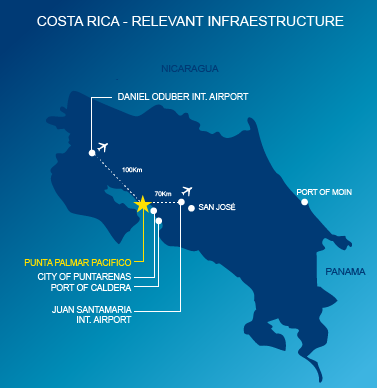
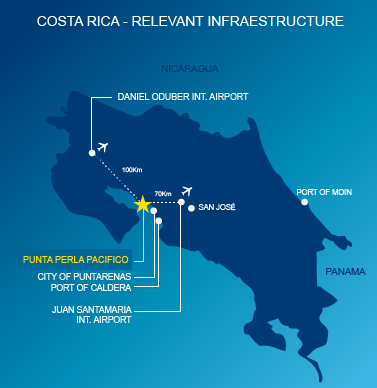
Updated text

Changed region(s): [[0.0584, 0.6186, 0.3501, 0.7113]]

diff --git a/index.html b/index.html
@@ -3,26 +3,17 @@ layout: default
 ---
 <div class="bannercontainer" style="max-height: none; overflow: visible; height: 365px;">
     <div class="banner revslider-initialised tp-simpleresponsive" data-fullscreen="on" data-auto="true" data-hidetimerbar="off" data-fullscreenoffsetcontainer=".header" id="revslider-382" style="height: 100%; max-height: none;">
+
       <ul class="tp-revslider-mainul" style="display: block; overflow: hidden; width: 100%; height: 100%; max-height: none;">
-        <li data-transition="fade" data-slotamount="7" data-saveperformance="on" class="background overlay overlay-light tp-revslider-slidesli active-revslide" style="width: 100%; height: 100%; overflow: hidden; z-index: 18; visibility: hidden; opacity: 0; background-image: url(http://placehold.it/2000x1333);">
-          <div class="tp-caption sft large_bold_white start" data-x="center" data-y="center" data-voffset="-85" data-speed="700" data-start="700" data-easing="easeOutBack" style="transition: all 0s ease 0s; min-height: 0px; min-width: 0px; line-height: 40px; border-width: 0px; margin: 0px; padding: 0px; letter-spacing: 0px; font-size: 28px; left: 588.5px; top: 106.091px; visibility: visible; opacity: 0; transform: matrix3d(1, 0, 0, 0, 0, 1, 0, 0, 0, 0, 1, -0.00166, 0, -50, 0, 1);">Welcome to Punta Perla Pacífico</div>
-          <p class="tp-caption fade text-center start" data-x="center" data-y="center" data-speed="500" data-start="900" data-easing="easeOutBack" style="transition: opacity 0.15s linear 0s; min-height: 0px; min-width: 0px; line-height: 16px; border-width: 0px; margin: 0px 0px 16.5909px; padding: 0px; letter-spacing: 0px; font-size: 11px; left: 551.5px; top: 150.205px; visibility: visible; opacity: 0; transform: matrix3d(1, 0, 0, 0, 0, 1, 0, 0, 0, 0, 1, -0.00166, 0, 0, 0, 1);">Lorem ipsum dolor sit amet consectetur adipisicing elit seddo
-            <br> eiusmod tempor incididunt ut labore et dolore magna aliqua. <br> Utondo enim ad minim veniam quis nostrud exercitation ullamco.</p>
-          <a href="#slide-under" class="tp-caption sfb btn btn-primary btn-lg btn-wide slider-scroll start" data-x="center" data-y="center" data-voffset="80" data-hoffset="-10" data-speed="300" data-start="1000" style="transition: all 0.2s ease 0s; min-height: 0px; min-width: 0px; line-height: 31px; border-width: 0px; margin: 0px; padding: 0px 23px; letter-spacing: 0px; font-size: 10px; left: 664.364px; top: 220.091px; visibility: visible; opacity: 0; transform: matrix3d(1, 0, 0, 0, 0, 1, 0, 0, 0, 0, 1, -0.00166, 0, 50, 0, 1);">Read More</a>
-        </li>
-        <li data-transition="fade" data-slotamount="7" data-saveperformance="on" class="background overlay overlay-light tp-revslider-slidesli active-revslide current-sr-slide-visible" style="width: 100%; height: 100%; overflow: hidden; z-index: 20; visibility: inherit; opacity: 1; background-image: url(http://placehold.it/2000x1333);">
-          <div class="tp-caption sft large_bold_white start" data-x="left" data-y="center" data-hoffset="100" data-voffset="-85" data-speed="700" data-start="700" data-easing="easeOutBack" style="transition: all 0s ease 0s; min-height: 0px; min-width: 0px; line-height: 40px; border-width: 0px; margin: 0px; padding: 0px; letter-spacing: 0px; font-size: 28px; left: 395.723px; top: 106.091px; visibility: visible; opacity: 1; transform: matrix3d(1, 0, 0, 0, 0, 1, 0, 0, 0, 0, 1, -0.0025, 0, 0, 0, 1);">Welcome to Punta Perla Pacífico</div>
-          <p class="tp-caption fade start" data-x="left" data-y="center" data-hoffset="100" data-speed="500" data-start="900" data-easing="easeOutBack" style="transition: opacity 0.15s linear 0s; min-height: 0px; min-width: 0px; line-height: 16px; border-width: 0px; margin: 0px 0px 16.5909px; padding: 0px; letter-spacing: 0px; font-size: 11px; left: 395.723px; top: 150.205px; visibility: visible; opacity: 1; transform: matrix3d(1, 0, 0, 0, 0, 1, 0, 0, 0, 0, 1, -0.0025, 0, 0, 0, 1);">Lorem ipsum dolor sit amet consectetur adipisicing elit seddo
-            <br> eiusmod tempor incididunt ut labore et dolore magna aliqua. <br> Utondo enim ad minim veniam quis nostrud exercitation ullamco.</p>
-          <a href="#slide-under" class="tp-caption sfb btn btn-primary btn-lg btn-wide slider-scroll start" data-x="left" data-y="center" data-voffset="80" data-hoffset="100" data-speed="300" data-start="1000" style="transition: all 0.2s ease 0s; min-height: 0px; min-width: 0px; line-height: 31px; border-width: 0px; margin: 0px; padding: 0px 23px; letter-spacing: 0px; font-size: 10px; left: 395.723px; top: 220.091px; visibility: visible; opacity: 1; transform: matrix3d(1, 0, 0, 0, 0, 1, 0, 0, 0, 0, 1, -0.0025, 0, 0, 0, 1);">Read More</a>
-        </li>
-        <li data-transition="fade" data-slotamount="7" data-saveperformance="on" class="background overlay overlay-light tp-revslider-slidesli active-revslide" style="width: 100%; height: 100%; overflow: hidden; visibility: hidden; opacity: 0; z-index: 18; background-image: url(http://placehold.it/2000x1333);">
-          <div class="tp-caption sft large_bold_white start" data-x="left" data-y="center" data-hoffset="500" data-voffset="-85" data-speed="700" data-start="700" data-easing="easeOutBack" style="transition: all 0s ease 0s; min-height: 0px; min-width: 0px; line-height: 60px; border-width: 0px; margin: 0px; padding: 0px; letter-spacing: 0px; font-size: 42px; left: 665px; top: 251px; visibility: visible; opacity: 0; transform: matrix3d(1, 0, 0, 0, 0, 1, 0, 0, 0, 0, 1, -0.00166, 0, -50, 0, 1);">Welcome to Punta Perla Pacífico</div>
-          <p class="tp-caption fade start" data-x="left" data-y="center" data-hoffset="500" data-speed="500" data-start="900" data-easing="easeOutBack" style="transition: opacity 0.15s linear 0s; min-height: 0px; min-width: 0px; line-height: 24px; border-width: 0px; margin: 0px 0px 25px; padding: 0px; letter-spacing: 0px; font-size: 17px; left: 665px; top: 317.5px; visibility: visible; opacity: 0; transform: matrix3d(1, 0, 0, 0, 0, 1, 0, 0, 0, 0, 1, -0.00166, 0, 0, 0, 1);">Lorem ipsum dolor sit amet consectetur adipisicing elit seddo
-            <br> eiusmod tempor incididunt ut labore et dolore magna aliqua. <br> Utondo enim ad minim veniam quis nostrud exercitation ullamco.</p>
-          <a href="#slide-under" class="tp-caption sfb btn btn-primary btn-lg btn-wide slider-scroll start" data-x="left" data-y="center" data-voffset="80" data-hoffset="500" data-speed="300" data-start="1000" style="transition: all 0.2s ease 0s; min-height: 0px; min-width: 0px; line-height: 47px; border-width: 0px; margin: 0px; padding: 0px 35px; letter-spacing: 0px; font-size: 15px; left: 665px; top: 422.5px; visibility: visible; opacity: 0; transform: matrix3d(1, 0, 0, 0, 0, 1, 0, 0, 0, 0, 1, -0.00166, 0, 50, 0, 1);">Read More</a>
-        </li>
+        {% for slide in site.data.slides %}
+          <li data-transition="fade" data-slotamount="7" data-saveperformance="on" class="background overlay overlay-light tp-revslider-slidesli active-revslide" style="width: 100%; height: 100%; overflow: hidden; z-index: 18; visibility: hidden; opacity: 0; background-image: url(/images/slider/{{ slide.img }});">
+            <div class="tp-caption sft large_bold_white start" data-x="center" data-y="center" data-voffset="-85" data-speed="700" data-start="700" data-easing="easeOutBack" style="transition: all 0s ease 0s; min-height: 0px; min-width: 0px; line-height: 40px; border-width: 0px; margin: 0px; padding: 0px; letter-spacing: 0px; font-size: 28px; left: 588.5px; top: 106.091px; visibility: visible; opacity: 0; transform: matrix3d(1, 0, 0, 0, 0, 1, 0, 0, 0, 0, 1, -0.00166, 0, -50, 0, 1);">{{ slide.title }}</div>
+            <p class="tp-caption fade text-center start" data-x="center" data-y="center" data-speed="500" data-start="900" data-easing="easeOutBack" style="transition: opacity 0.15s linear 0s; min-height: 0px; min-width: 0px; line-height: 16px; border-width: 0px; margin: 0px 0px 16.5909px; padding: 0px; letter-spacing: 0px; font-size: 11px; left: 551.5px; top: 150.205px; visibility: visible; opacity: 0; transform: matrix3d(1, 0, 0, 0, 0, 1, 0, 0, 0, 0, 1, -0.00166, 0, 0, 0, 1);">{{ slide.description }}</p>
+            <a href="#slide-under" class="tp-caption sfb btn btn-primary btn-lg btn-wide slider-scroll start" data-x="center" data-y="center" data-voffset="80" data-hoffset="-10" data-speed="300" data-start="1000" style="transition: all 0.2s ease 0s; min-height: 0px; min-width: 0px; line-height: 31px; border-width: 0px; margin: 0px; padding: 0px 23px; letter-spacing: 0px; font-size: 10px; left: 664.364px; top: 220.091px; visibility: visible; opacity: 0; transform: matrix3d(1, 0, 0, 0, 0, 1, 0, 0, 0, 0, 1, -0.00166, 0, 50, 0, 1);">Read More</a>
+          </li>
+        {% endfor %}
       </ul>
+
     <div class="tp-loader spinner0" style="display: none;"><div class="dot1"></div><div class="dot2"></div><div class="bounce1"></div><div class="bounce2"></div><div class="bounce3"></div></div><div class="tp-bannertimer" style="visibility: visible; width: 14.8111%; transform: translate3d(0px, 0px, 0px);"></div></div>
   <div class="tp-bullets  simplebullets round" style="bottom: 23.2273px; left: 50%; margin-left: -26px;"><div class="bullet first"></div><div class="bullet selected"></div><div class="bullet last"></div><div class="tpclear"></div></div><div style="position: absolute; top: 182px; margin-top: -24px; left: -2px;" class="tp-leftarrow  tparrows default round"><div class="tp-arr-allwrapper"><div class="tp-arr-iwrapper"><div class="tp-arr-imgholder" style="visibility: inherit; opacity: 1; background-image: url(file:///Users/guayo/Dropbox/bretes/punta%20Perla%20paci%CC%81fico/themeforest-13905389-mexico-responsive-multipurpose-template/html/home/undefined);"></div><div class="tp-arr-imgholder2"></div><div class="tp-arr-titleholder"></div><div class="tp-arr-subtitleholder"></div></div></div></div><div style="position: absolute; top: 182px; margin-top: -24px; right: -2px;" class="tp-rightarrow  tparrows default round"><div class="tp-arr-allwrapper"><div class="tp-arr-iwrapper"><div class="tp-arr-imgholder" style="visibility: inherit; opacity: 1; background-image: url(file:///Users/guayo/Dropbox/bretes/punta%20Perla%20paci%CC%81fico/themeforest-13905389-mexico-responsive-multipurpose-template/html/home/undefined);"></div><div class="tp-arr-imgholder2"></div><div class="tp-arr-titleholder"></div><div class="tp-arr-subtitleholder"></div></div></div></div></div>
   <hr class="hr-nobg hr-md">
@@ -50,7 +41,7 @@ layout: default
           </div>
         </div>
         <div class="col-md-4 col-sm-6">
-          <h2><a href="">Main features</a></h2>
+          <h2><a href="">Punta Perla Pacífico</a></h2>
           <div class="heading-divider"></div>
           <p>Uis aute irure dolor in reprehenderit in voluptate velit esse cillum dolore eu fugiat nulla pariatur. Excepteur sint occaecat cupidatat non proident, sunt in culpa qui officia deserunt mollit anim id est laborum.</p>
           <p>Sed ut perspiciatis unde omnis iste natus error voluptatem accusantium doloremque lauda ntium, totam rem aperiam, eaque ipsa quaeab illo inventore veritatis et quasi architecto voluptate velit esse cillum dolor.</p>

diff --git a/about/introduction.md b/about/introduction.md
@@ -12,20 +12,20 @@ This country is a Latin American stronghold with high levels of human developmen
 
 Sub-development can become a permanent condition as well as mediocrity, minds become slow and heavy when a country and its context do not innovate, do not develop and the fundamental changes do not transcend and are not executed due to lack of innovating and developing policies and only those that fit the minds of populist politi-cians with little vision take place. Progress and development are with-out doubt the mission and vision of this initiative but always hand-in-hand with their social contribution, this being their maximum goal, and of course hand-in-hand with environmental sustainability.
 
-That is why, Pacific Tree S.A., a promoting and coordinating company of the initiative denominated Smart City Punta Palmar Pacifico, wishes to layout its idea and vision which has begun as a dream, but that Costa Rica can bring to life. We oppose and we refuse to think that Costa Rica has to remain in that sub-development lethargy for another 50 years, condemning future generations to a lack of progress opportunities. This being so, Punta Palmar Pacífico is precisely about that; it is about promoting a substantial well-planned change with traceable long-term goals.
+That is why, Pacific Tree S.A., a promoting and coordinating company of the initiative denominated Smart City Punta Perla Pacifico, wishes to layout its idea and vision which has begun as a dream, but that Costa Rica can bring to life. We oppose and we refuse to think that Costa Rica has to remain in that sub-development lethargy for another 50 years, condemning future generations to a lack of progress opportunities. This being so, Punta Perla Pacífico is precisely about that; it is about promoting a substantial well-planned change with traceable long-term goals.
 
 ## Relevant Infraestructure
 
 ![Costa Rica](/images/costa-rica-intro.png){: .pull-left .txt-img } Costa Rica is a country with high indexes of schooling, bilingualism, high-level technical and professional schools in the fields of engineering, medicine, computer science and IT, as well as being considered a tour-ism and ecological destination par excellence in Latin America. The Province of Puntarenas is joined together among other cantons by the three main cantons: Puntarenas  Center, Esparza and Miramar. These include a population of nearly 200,000 residents and this area, rich in lands with a flat topography for agricultural production and its Gulf of Nicoya, once a buoyant fishing zone, for more than 60 years were generators of wealth and employment, activities that no longer allow the needs demanded by the residents to be satisfied. However, it is area with an impressive potential, due to its strategic geographical location, its tourism potential without paragon being close to the largest beach of the Pacific and next to a long strip of wetlands and mangroves of exuberant natural beauty with an exit to the sea and towards the lovely islands of the Gulf of Nicoya. It is also located at only 75 kms by road from the capital city of Costa Rica, San Jose, and soon, one and a half hours away to the north to the best tourism area and beaches of the province of Guanacaste.
 
-Punta Palmar Pacífico would be located at the center of those three cantons, within an area that includes the small settlements of Pitaya and Chomes.  Its strategic location is highlighted since it is also surrounded by the three main ports of the Costa Rican Pacific shore: Caldera which is the grain port, the Cruiser Port of Puntarenas and the Sugar port of Punta Morales at the center of the Americas. Punta Palmar Pacífico contemplates the development of a Smart City on a land extension of 5,600 hectares, which can be expanded up to 7,000 hectares.
+Punta Perla Pacífico would be located at the center of those three cantons, within an area that includes the small settlements of Pitaya and Chomes.  Its strategic location is highlighted since it is also surrounded by the three main ports of the Costa Rican Pacific shore: Caldera which is the grain port, the Cruiser Port of Puntarenas and the Sugar port of Punta Morales at the center of the Americas. Punta Perla Pacífico contemplates the development of a Smart City on a land extension of 5,600 hectares, which can be expanded up to 7,000 hectares.
 
 ## General Context
 
 ![Costa Rica](/images/project-map.png){: .pull-right .txt-img }The following would be established here: a mega manufacturing indus-trial zone, a trade center of Asian products, a large IT center that could operate as a Hub or core telecommunications center, in coordination with the three time zones of the USA and attractive for the telematic and communication operations that American companies operate today in centers in Southeast Asia and India with the disadvantage of the great time table difference with the USA, a convention center, a sports stadium with a sports center, a hospital and health center, school, high-school and university educational centers, residential compounds, shopping centers, a country club with a golf course, a theme park, recreational areas, hotel and casino center, Government offices, Justice Courts, firemen and police force, parks, roundabouts and avenues, etc.   All of this would exist under an integrated compound of “clusters” of smart communication systems in optic fiber, where one will only use self-sustainable transportation and energy support systems, using resources of renewable and environmentally friendly energy sources.
 
-One would also think about locating the new international airport that Costa Rica needs there, within a 900 hectare area, since these are flat topography lands, at a price per m2 well below those compared with other areas of the country that are currently being studied. Because they are flat lands, the cost of earth movements is low and, what is most important, there are no obstacles for natural approximation and take-off procedures, with the best location from the aeronautical point of view. The new mega port terminal of the Pacific could be located only 15 kms away in a maritime zone with special natural characteristics of draught and depth of 15 meters, where ships with a capacity of up to 12 thou-sand containers of the Panamax and Post Panamax type and grain ships with Capesize dimensions, will be able to dock. With this, high aggregate value synergies would be established for merchandise trade through the Panama Canal and with the future Caribbean terminal port of Moin, of the Province of Limon, with a proposal currently under study that intends to join both coasts through a railway line, benefiting all the processes of the logistic chain of foreign trade of Costa Rica.
+One would also think about locating a new international cargo airport that Costa Rica needs there, within a 500 hectare area, since these are flat topography lands, at a price per m2 well below those compared with other areas of the country that are currently being studied. Because they are flat lands, the cost of earth movements is low and, what is most important, there are no obstacles for natural approximation and take-off procedures, with the best location from the aeronautical point of view. The new mega port terminal of the Pacific could be located only 15 kms away in a maritime zone with special natural characteristics of draught and depth of 15 meters, where ships with a capacity of up to 12 thou-sand containers of the Panamax and Post Panamax type dimension ships, will be able to dock. With this, high aggregate value synergies would be established for merchandise trade through the Panama Canal and with the future Caribbean terminal port of Moin, of the Province of Limon, with a proposal currently under study that intends to join both coasts through a railway line, benefiting all the processes of the logistic chain of foreign trade of Costa Rica.
 
-The city Punta Palmar Pacífico would be connected through a new railway line and a modern train from and to the city of San Jose, so that the people who work there but do not live there, will be able to go from one place to the other in only 45 minutes. On the other hand, this project intends to decongest and relieve the great vehicle load, pollution issues and the great residential pressure of the Great Metropolitan Area, offeringto the younger generations both Costa Rican as well as foreigners, - through incentives and mechanisms of the Immigration policy of Costa Rica, derived from the Free Trade Agreements it has signed with various countries-, the possibility of developing and advancing in a non-polluted environment in contact with the Pacific Ocean, allowing them to live, work and study in the coastal zone, and with the real possibility of having their own house through integral financing plans.
+The city Punta Perla Pacífico would be connected through a new railway line and a modern train from and to the city of San Jose, so that the people who work there but do not live there, will be able to go from one place to the other in only 45 minutes. On the other hand, this project intends to decongest and relieve the great vehicle load, pollution issues and the great residential pressure of the Great Metropolitan Area, offeringto the younger generations both Costa Rican as well as foreigners, - through incentives and mechanisms of the Immigration policy of Costa Rica, derived from the Free Trade Agreements it has signed with various countries-, the possibility of developing and advancing in a non-polluted environment in contact with the Pacific Ocean, allowing them to live, work and study in the coastal zone, and with the real possibility of having their own house through integral financing plans.
 
 This ambitious project would see its full peak at the end of 25 years.  Pacific Tree S.A., through this initiative-proposal wishes to invite Mega Developers, Development and Commercial Banks and International Investors to invest in this proposal, funding the next stage of our Con-ceptual Plan, which would be performing a Business Plan and an Envi-ronmental Incidence Study, based on a pre-feasibility economic study with the intention that this proposal may be qualified with the Declarationof National Interest and Private Initiative by the Government of Costa Rica.The funds invested in the mentioned studies would be reimbursablewhen the project enters its development stage.

diff --git a/participants.md b/participants.md
@@ -1,21 +1,37 @@
 ---
-layout: page
+title: Participants
+subtitle: Some of the participants in the project
+layout: project
 participants:
- - name: Pacific Tree S.A.
-   description: Managing Company and promoter of the Punta Palmar Pacífico Smart City  initiative and its development through the generation of specialized poles in the areas of infrastructure, logistics, transportation, ports and Cargo airport, a center for technology transfer and a technological park.  It is represented by Mauricio Dobles Montealegre, a lawyer specializing in Corporate Law.  Pacific Tree S.A., through a consortia of national and international investors, aims to invest a sum of US$ 290 million dollars for the purchase of lands and financing of the advanced technical-study phase and development of basic infrastructure such as water well perforation, building of aqueducts, streets, sidewalks, bike lanes, underground electricity networks, sewer systems, water treatment plants and fiber optics networks among others.  This will invite sub-development companies to invest, design and develop specific sections within and for said poles. 
-
- - name: INGENYA Consultores S.A.
-   description: Ingenya Consultores S.A. is a Company with 15 years of experience in engineering and architectural design in Costa Rica which has specialized mainly in high tech industrial projects for the industries of microchips, medical products and pharmaceuticals, as well as for the manufacture of food products.  Furthermore, Ingenya has a vast experience in the hotel industry and housing projects. 
-
- - name: GESTARSE S.A.
-   description: Gestarse S.A. is a consulting firm, which provides integrated consulting services to insure the organizations´ competitiveness and sustainability in the mid and long term, starting from a solid base in Social Responsibility, Organizational Development and Project Management. They work together with the organization in order to create the conditions for the management of their process internally, instead of creating co-dependence. 
-
- - name: TABASH Y ASOCIADOS
-   description: "Tabash y Asociados has been in charge of managing financial solutions for its clients for the past 15 years, with the purpose of improving its clients’ growth, development, short-term and medium-term planning, helping them in negotiating funds to be utilized as work capital, credit lines, financing for projects and investments, recovery and financing of their credit portfolio, research and development, launching of new products, financial development for their own clients, etc.  We have specialized in developing innovative models, which allow for adjustments depending on the clients’ and funders´ needs.  We use national and international donors, public or private, as well as investment societies, NGOs, funders other than banks, sophisticated investors and, more recently, we have been involved with Risk Funders, Venture Capital and Risk Investors. > We cater to clients from all areas of the economy, as well as all sizes of companies, from micro-businesses, to mega-projects, dedicated to activities such as agriculture, livestock, agro-industry, industry, commerce and services and a large variety of entrepreneurs, small and medium-sized companies, associations and municipalities and cooperatives. > Tabash y Asociados, together with PPP, will develop a financing model, which we will execute. > Our tasks will concentrate on the first three fundamental parts of this project: > a) the first task will be to obtain resources for the preliminary studies. >  b) the second will be to gather a group of innovative funders, which will create the structure needed in order to negotiate the land. > c) the third task will be to raise the capital needed to buy the land and carry out the required studies for the execution of the project."
-
- - name: Encyclia Eco-turism
-   description: A tourism consulting firm based in Costa Rica, specialized in projects in the tropical forest where human development interacts with fragile ecosystems. We plan, develop and manage environmentally friendly destinations, meeting international standards of quality for demanding customers; our purpose is to create economically and socially sustainable business for the present and the next generations. We have developed products and destinations for the competitive Costa Rican market, with strong environmental components and high traffic, our professionals are leaders with wide knowledge of the national and regional dynamics of the industry, formed in ecotourism, sustainable development and hotel management. 
-
- - name: Aramacao Bird Sanctuary
-   description: Pendiente - Theme Park
 ---
+## Pacific Tree S.A.
+
+Managing Company and promoter of the Punta Palmar Pacífico Smart City  initiative and its development through the generation of specialized poles in the areas of infrastructure, logistics, transportation, ports and Cargo airport, a center for technology transfer and a technological park.  It is represented by Mauricio Dobles Montealegre, a lawyer specializing in Corporate Law.  Pacific Tree S.A., through a consortia of national and international investors, aims to invest a sum of US$ 290 million dollars for the purchase of lands and financing of the advanced technical-study phase and development of basic infrastructure such as water well perforation, building of aqueducts, streets, sidewalks, bike lanes, underground electricity networks, sewer systems, water treatment plants and fiber optics networks among others.  This will invite sub-development companies to invest, design and develop specific sections within and for said poles. 
+
+## INGENYA Consultores S.A.
+
+Ingenya Consultores S.A. is a Company with 15 years of experience in engineering and architectural design in Costa Rica which has specialized mainly in high tech industrial projects for the industries of microchips, medical products and pharmaceuticals, as well as for the manufacture of food products.  Furthermore, Ingenya has a vast experience in the hotel industry and housing projects. 
+
+## GESTARSE S.A.
+description: Gestarse S.A. is a consulting firm, which provides integrated consulting services to insure the organizations´ competitiveness and sustainability in the mid and long term, starting from a solid base in Social Responsibility, Organizational Development and Project Management. They work together with the organization in order to create the conditions for the management of their process internally, instead of creating co-dependence. 
+
+## TABASH Y ASOCIADOS
+
+"Tabash y Asociados has been in charge of managing financial solutions for its clients for the past 15 years, with the purpose of improving its clients’ growth, development, short-term and medium-term planning, helping them in negotiating funds to be utilized as work capital, credit lines, financing for projects and investments, recovery and financing of their credit portfolio, research and development, launching of new products, financial development for their own clients, etc.  We have specialized in developing innovative models, which allow for adjustments depending on the clients’ and funders´ needs.  We use national and international donors, public or private, as well as investment societies, NGOs, funders other than banks, sophisticated investors and, more recently, we have been involved with Risk Funders, Venture Capital and Risk Investors. > We cater to clients from all areas of the economy, as well as all sizes of companies, from micro-businesses, to mega-projects, dedicated to activities such as agriculture, livestock, agro-industry, industry, commerce and services and a large variety of entrepreneurs, small and medium-sized companies, associations and municipalities and cooperatives. > Tabash y Asociados, together with PPP, will develop a financing model, which we will execute. > Our tasks will concentrate on the first three fundamental parts of this project: > a) the first task will be to obtain resources for the preliminary studies. >  b) the second will be to gather a group of innovative funders, which will create the structure needed in order to negotiate the land. > c) the third task will be to raise the capital needed to buy the land and carry out the required studies for the execution of the project."
+
+## Encyclia Eco-turism
+
+A tourism consulting firm based in Costa Rica, specialized in projects in the tropical forest where human development interacts with fragile ecosystems. We plan, develop and manage environmentally friendly destinations, meeting international standards of quality for demanding customers; our purpose is to create economically and socially sustainable business for the present and the next generations. We have developed products and destinations for the competitive Costa Rican market, with strong environmental components and high traffic, our professionals are leaders with wide knowledge of the national and regional dynamics of the industry, formed in ecotourism, sustainable development and hotel management. 
+
+## Theme Park
+
+### Natuwa
+Aramacao Bird Sanctuary
+Pendiente - Theme Park
+
+[natuwa.com](http://natuwa.com)
+
+## Nortdeco
+
+Agregar descripciónotequals
+[Nortdeco Website](http://nortdeco.com)
